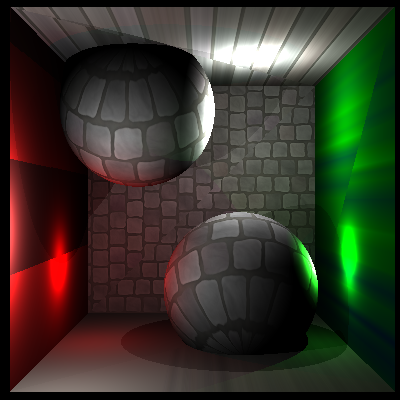
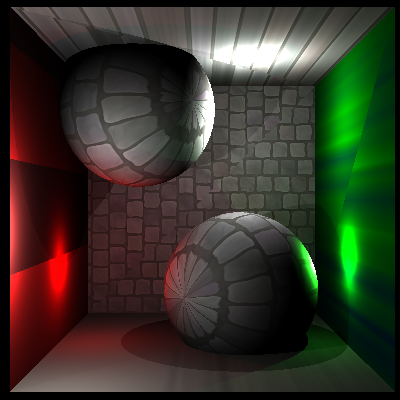
Update: better view of cylindrical and spherical mapping

diff --git a/rt/coordmappers/cylindrical.cpp b/rt/coordmappers/cylindrical.cpp
@@ -12,14 +12,13 @@ namespace rt
 		pScale = polarAxis.length();
 		thirdZ = cross(this->polarAxis, this->longitudinalAxis).normalize();
 		transformation = Matrix::system(longitudinalAxis.normalize(), polarAxis.normalize(), thirdZ).invert();
-		transformation = product(transformation, translation(Point(-origin.x, -origin.y, -origin.z)));	
+		transformation = product(transformation.transpose(), translation(Point(-origin.x, -origin.y, -origin.z)));
+	
 	}
 	Point CylindricalCoordMapper::getCoords(const Intersection & hit) const
 	{
 		Point translatedPoint = transformation * hit.local();
-		float x = translatedPoint.x;
-		float y = translatedPoint.y;
-		float phi = atan2(y,x);
+		float phi = atan2(translatedPoint.y,translatedPoint.x);
 		return Point (phi / (2 * pi * pScale), translatedPoint.z / lScale, 0);
 	}
 }

diff --git a/rt/coordmappers/spherical.cpp b/rt/coordmappers/spherical.cpp
@@ -13,7 +13,7 @@ namespace rt
 		aScale = azimuthRef.length();
 		thirdZ = cross(this->azimuthRef, this->zenith).normalize();
 		transformation = Matrix::system(zenith.normalize(), azimuthRef.normalize(), thirdZ).invert();
-		transformation = product(transformation, translation(Point(-origin.x, -origin.y, -origin.z)));
+		transformation = product(transformation.transpose(), translation(Point(-origin.x, -origin.y, -origin.z)));
 	}
 	Point SphericalCoordMapper::getCoords(const Intersection & hit) const
 	{
